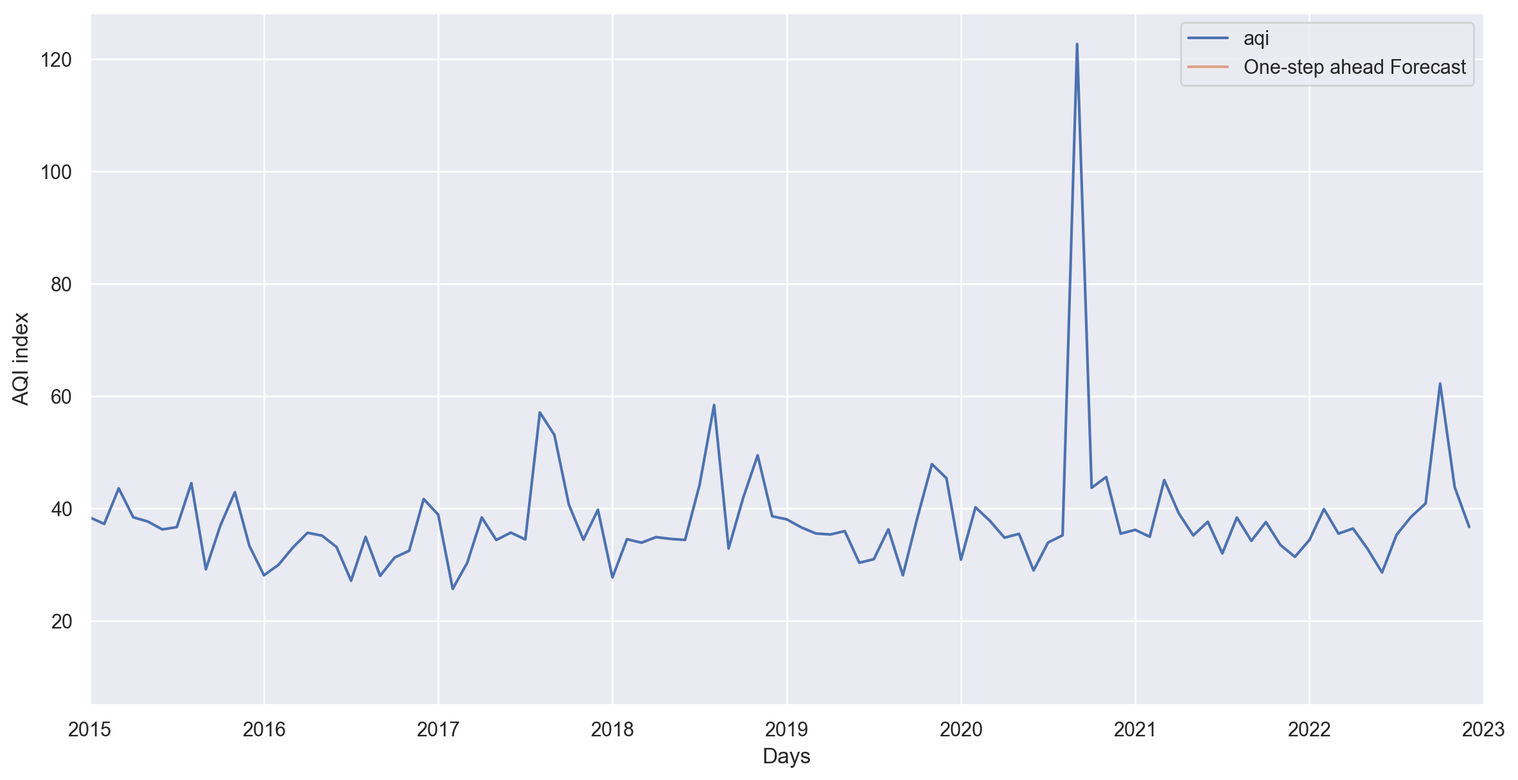
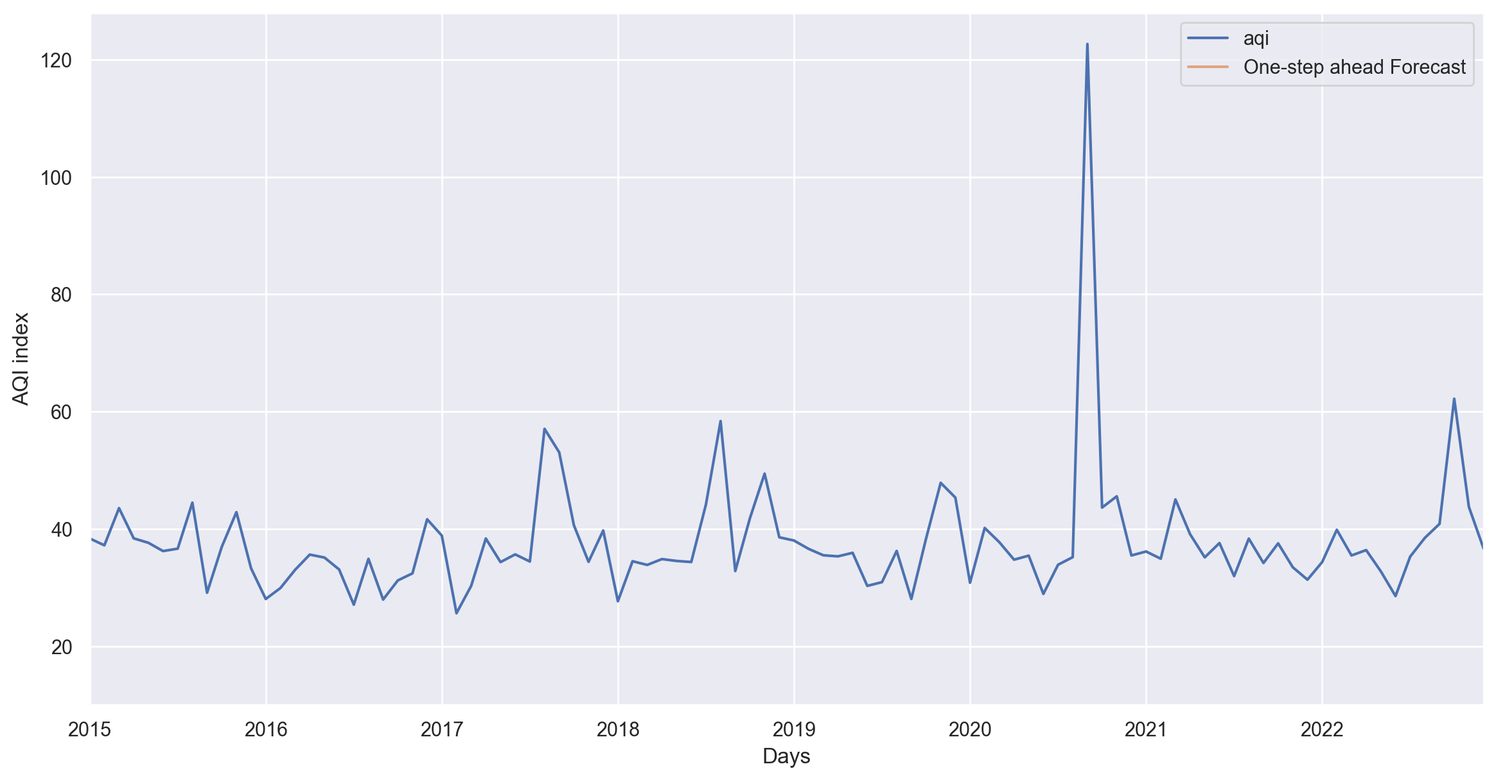
Built site for gh-pages

diff --git a/capstone.html b/capstone.html
@@ -465,7 +465,7 @@ window.Quarto = {
 <div id="cell-sweetvis-report" class="cell" data-execution_count="9">
 <div id="sweetvis-report" class="cell-output cell-output-display">
 <script type="application/vnd.jupyter.widget-view+json">
-{"model_id":"a501fcc1f19146e3a43d1f40a7b7bb3c","version_major":2,"version_minor":0,"quarto_mimetype":"application/vnd.jupyter.widget-view+json"}
+{"model_id":"ec99ad466fbc4343861522b5c9270a0a","version_major":2,"version_minor":0,"quarto_mimetype":"application/vnd.jupyter.widget-view+json"}
 </script>
 </div>
 <div class="cell-output cell-output-stdout">
@@ -666,7 +666,7 @@ The graph indicates overlapping patterns in the testing and training data, sugge
 ::: {#cell-plot-prediction .cell execution_count=27}
 
 ::: {.cell-output .cell-output-display}
-![](capstone_files/figure-html/plot-prediction-output-1.png){#plot-prediction width=1181 height=607}
+![](capstone_files/figure-html/plot-prediction-output-1.png){#plot-prediction width=1164 height=607}
 :::
 :::
 
@@ -681,7 +681,7 @@ To evaluate model performance, we calculate the MSE
 ::: {#calculate-mse .cell execution_count=29}
 
 ::: {.cell-output .cell-output-stdout}</code></pre>
-<p>The Mean Squared Error of our forecasts is 1.41 ``` ::: :::</p>
+<p>The Mean Squared Error of our forecasts is 3.38 ``` ::: :::</p>
 <section id="forecasting-future-values" class="level2">
 <h2 class="anchored" data-anchor-id="forecasting-future-values">Forecasting Future Values</h2>
 <p>As we conclude our modeling process, we generate predictions for the next 7 data points:</p>
@@ -791,7 +791,7 @@ To evaluate model performance, we calculate the MSE
 </main>
 <!-- /main column -->
 <script type="application/vnd.jupyter.widget-state+json">
-{"state":{"2ea18e6ea51c46ba9e9ee48e72ef158d":{"model_module":"@jupyter-widgets/controls","model_module_version":"2.0.0","model_name":"FloatProgressModel","state":{"_dom_classes":[],"_model_module":"@jupyter-widgets/controls","_model_module_version":"2.0.0","_model_name":"FloatProgressModel","_view_count":null,"_view_module":"@jupyter-widgets/controls","_view_module_version":"2.0.0","_view_name":"ProgressView","bar_style":"success","description":"","description_allow_html":false,"layout":"IPY_MODEL_4f5a3c264dbb4af0a2864dc6a41ca793","max":1,"min":0,"orientation":"horizontal","style":"IPY_MODEL_571d17337012406a85c8edd69dbf84c9","tabbable":null,"tooltip":null,"value":1}},"4f5a3c264dbb4af0a2864dc6a41ca793":{"model_module":"@jupyter-widgets/base","model_module_version":"2.0.0","model_name":"LayoutModel","state":{"_model_module":"@jupyter-widgets/base","_model_module_version":"2.0.0","_model_name":"LayoutModel","_view_count":null,"_view_module":"@jupyter-widgets/base","_view_module_version":"2.0.0","_view_name":"LayoutView","align_content":null,"align_items":null,"align_self":null,"border_bottom":null,"border_left":null,"border_right":null,"border_top":null,"bottom":null,"display":null,"flex":"2","flex_flow":null,"grid_area":null,"grid_auto_columns":null,"grid_auto_flow":null,"grid_auto_rows":null,"grid_column":null,"grid_gap":null,"grid_row":null,"grid_template_areas":null,"grid_template_columns":null,"grid_template_rows":null,"height":null,"justify_content":null,"justify_items":null,"left":null,"margin":null,"max_height":null,"max_width":null,"min_height":null,"min_width":null,"object_fit":null,"object_position":null,"order":null,"overflow":null,"padding":null,"right":null,"top":null,"visibility":null,"width":null}},"571d17337012406a85c8edd69dbf84c9":{"model_module":"@jupyter-widgets/controls","model_module_version":"2.0.0","model_name":"ProgressStyleModel","state":{"_model_module":"@jupyter-widgets/controls","_model_module_version":"2.0.0","_model_name":"ProgressStyleModel","_view_count":null,"_view_module":"@jupyter-widgets/base","_view_module_version":"2.0.0","_view_name":"StyleView","bar_color":null,"description_width":""}},"822ebb24d6684d768a9391b8932e4284":{"model_module":"@jupyter-widgets/controls","model_module_version":"2.0.0","model_name":"HTMLStyleModel","state":{"_model_module":"@jupyter-widgets/controls","_model_module_version":"2.0.0","_model_name":"HTMLStyleModel","_view_count":null,"_view_module":"@jupyter-widgets/base","_view_module_version":"2.0.0","_view_name":"StyleView","background":null,"description_width":"","font_size":null,"text_color":null}},"965e438e6b0449f89a46077520d34b82":{"model_module":"@jupyter-widgets/controls","model_module_version":"2.0.0","model_name":"HTMLStyleModel","state":{"_model_module":"@jupyter-widgets/controls","_model_module_version":"2.0.0","_model_name":"HTMLStyleModel","_view_count":null,"_view_module":"@jupyter-widgets/base","_view_module_version":"2.0.0","_view_name":"StyleView","background":null,"description_width":"","font_size":null,"text_color":null}},"a501fcc1f19146e3a43d1f40a7b7bb3c":{"model_module":"@jupyter-widgets/controls","model_module_version":"2.0.0","model_name":"HBoxModel","state":{"_dom_classes":[],"_model_module":"@jupyter-widgets/controls","_model_module_version":"2.0.0","_model_name":"HBoxModel","_view_count":null,"_view_module":"@jupyter-widgets/controls","_view_module_version":"2.0.0","_view_name":"HBoxView","box_style":"","children":["IPY_MODEL_e66b79edfe584945843e8c9934f2599a","IPY_MODEL_2ea18e6ea51c46ba9e9ee48e72ef158d","IPY_MODEL_b2de35547797410d87855e5888c433d8"],"layout":"IPY_MODEL_d05495e6dac04d169d86a2d1f2a990a5","tabbable":null,"tooltip":null}},"af5146f39d024f12a5582dd269ab049f":{"model_module":"@jupyter-widgets/base","model_module_version":"2.0.0","model_name":"LayoutModel","state":{"_model_module":"@jupyter-widgets/base","_model_module_version":"2.0.0","_model_name":"LayoutModel","_view_count":null,"_view_module":"@jupyter-widgets/base","_view_module_version":"2.0.0","_view_name":"LayoutView","align_content":null,"align_items":null,"align_self":null,"border_bottom":null,"border_left":null,"border_right":null,"border_top":null,"bottom":null,"display":null,"flex":null,"flex_flow":null,"grid_area":null,"grid_auto_columns":null,"grid_auto_flow":null,"grid_auto_rows":null,"grid_column":null,"grid_gap":null,"grid_row":null,"grid_template_areas":null,"grid_template_columns":null,"grid_template_rows":null,"height":null,"justify_content":null,"justify_items":null,"left":null,"margin":null,"max_height":null,"max_width":null,"min_height":null,"min_width":null,"object_fit":null,"object_position":null,"order":null,"overflow":null,"padding":null,"right":null,"top":null,"visibility":null,"width":null}},"b2de35547797410d87855e5888c433d8":{"model_module":"@jupyter-widgets/controls","model_module_version":"2.0.0","model_name":"HTMLModel","state":{"_dom_classes":[],"_model_module":"@jupyter-widgets/controls","_model_module_version":"2.0.0","_model_name":"HTMLModel","_view_count":null,"_view_module":"@jupyter-widgets/controls","_view_module_version":"2.0.0","_view_name":"HTMLView","description":"","description_allow_html":false,"layout":"IPY_MODEL_d2e5dfebb17847029031818a772fe55e","placeholder":"","style":"IPY_MODEL_965e438e6b0449f89a46077520d34b82","tabbable":null,"tooltip":null,"value":" [100%]   00:01 -&gt; (00:00 left)"}},"d05495e6dac04d169d86a2d1f2a990a5":{"model_module":"@jupyter-widgets/base","model_module_version":"2.0.0","model_name":"LayoutModel","state":{"_model_module":"@jupyter-widgets/base","_model_module_version":"2.0.0","_model_name":"LayoutModel","_view_count":null,"_view_module":"@jupyter-widgets/base","_view_module_version":"2.0.0","_view_name":"LayoutView","align_content":null,"align_items":null,"align_self":null,"border_bottom":null,"border_left":null,"border_right":null,"border_top":null,"bottom":null,"display":"inline-flex","flex":null,"flex_flow":"row wrap","grid_area":null,"grid_auto_columns":null,"grid_auto_flow":null,"grid_auto_rows":null,"grid_column":null,"grid_gap":null,"grid_row":null,"grid_template_areas":null,"grid_template_columns":null,"grid_template_rows":null,"height":null,"justify_content":null,"justify_items":null,"left":null,"margin":null,"max_height":null,"max_width":null,"min_height":null,"min_width":null,"object_fit":null,"object_position":null,"order":null,"overflow":null,"padding":null,"right":null,"top":null,"visibility":null,"width":"100%"}},"d2e5dfebb17847029031818a772fe55e":{"model_module":"@jupyter-widgets/base","model_module_version":"2.0.0","model_name":"LayoutModel","state":{"_model_module":"@jupyter-widgets/base","_model_module_version":"2.0.0","_model_name":"LayoutModel","_view_count":null,"_view_module":"@jupyter-widgets/base","_view_module_version":"2.0.0","_view_name":"LayoutView","align_content":null,"align_items":null,"align_self":null,"border_bottom":null,"border_left":null,"border_right":null,"border_top":null,"bottom":null,"display":null,"flex":null,"flex_flow":null,"grid_area":null,"grid_auto_columns":null,"grid_auto_flow":null,"grid_auto_rows":null,"grid_column":null,"grid_gap":null,"grid_row":null,"grid_template_areas":null,"grid_template_columns":null,"grid_template_rows":null,"height":null,"justify_content":null,"justify_items":null,"left":null,"margin":null,"max_height":null,"max_width":null,"min_height":null,"min_width":null,"object_fit":null,"object_position":null,"order":null,"overflow":null,"padding":null,"right":null,"top":null,"visibility":null,"width":null}},"e66b79edfe584945843e8c9934f2599a":{"model_module":"@jupyter-widgets/controls","model_module_version":"2.0.0","model_name":"HTMLModel","state":{"_dom_classes":[],"_model_module":"@jupyter-widgets/controls","_model_module_version":"2.0.0","_model_name":"HTMLModel","_view_count":null,"_view_module":"@jupyter-widgets/controls","_view_module_version":"2.0.0","_view_name":"HTMLView","description":"","description_allow_html":false,"layout":"IPY_MODEL_af5146f39d024f12a5582dd269ab049f","placeholder":"","style":"IPY_MODEL_822ebb24d6684d768a9391b8932e4284","tabbable":null,"tooltip":null,"value":"Done! Use &#x27;show&#x27; commands to display/save.   "}}},"version_major":2,"version_minor":0}
+{"state":{"3d402343ef1946248b02e79573597fcf":{"model_module":"@jupyter-widgets/controls","model_module_version":"2.0.0","model_name":"ProgressStyleModel","state":{"_model_module":"@jupyter-widgets/controls","_model_module_version":"2.0.0","_model_name":"ProgressStyleModel","_view_count":null,"_view_module":"@jupyter-widgets/base","_view_module_version":"2.0.0","_view_name":"StyleView","bar_color":null,"description_width":""}},"49e5c80c6dda4f1fb98753abdaf88c9c":{"model_module":"@jupyter-widgets/base","model_module_version":"2.0.0","model_name":"LayoutModel","state":{"_model_module":"@jupyter-widgets/base","_model_module_version":"2.0.0","_model_name":"LayoutModel","_view_count":null,"_view_module":"@jupyter-widgets/base","_view_module_version":"2.0.0","_view_name":"LayoutView","align_content":null,"align_items":null,"align_self":null,"border_bottom":null,"border_left":null,"border_right":null,"border_top":null,"bottom":null,"display":null,"flex":null,"flex_flow":null,"grid_area":null,"grid_auto_columns":null,"grid_auto_flow":null,"grid_auto_rows":null,"grid_column":null,"grid_gap":null,"grid_row":null,"grid_template_areas":null,"grid_template_columns":null,"grid_template_rows":null,"height":null,"justify_content":null,"justify_items":null,"left":null,"margin":null,"max_height":null,"max_width":null,"min_height":null,"min_width":null,"object_fit":null,"object_position":null,"order":null,"overflow":null,"padding":null,"right":null,"top":null,"visibility":null,"width":null}},"6afba8055e2c49dfa81f9986a1ab6a39":{"model_module":"@jupyter-widgets/controls","model_module_version":"2.0.0","model_name":"HTMLModel","state":{"_dom_classes":[],"_model_module":"@jupyter-widgets/controls","_model_module_version":"2.0.0","_model_name":"HTMLModel","_view_count":null,"_view_module":"@jupyter-widgets/controls","_view_module_version":"2.0.0","_view_name":"HTMLView","description":"","description_allow_html":false,"layout":"IPY_MODEL_49e5c80c6dda4f1fb98753abdaf88c9c","placeholder":"","style":"IPY_MODEL_6e85fd0e65f64930873b68faa0e7628f","tabbable":null,"tooltip":null,"value":"Done! Use &#x27;show&#x27; commands to display/save.   "}},"6e85fd0e65f64930873b68faa0e7628f":{"model_module":"@jupyter-widgets/controls","model_module_version":"2.0.0","model_name":"HTMLStyleModel","state":{"_model_module":"@jupyter-widgets/controls","_model_module_version":"2.0.0","_model_name":"HTMLStyleModel","_view_count":null,"_view_module":"@jupyter-widgets/base","_view_module_version":"2.0.0","_view_name":"StyleView","background":null,"description_width":"","font_size":null,"text_color":null}},"a71c74b10b3942759b6e5cd9469dc76b":{"model_module":"@jupyter-widgets/base","model_module_version":"2.0.0","model_name":"LayoutModel","state":{"_model_module":"@jupyter-widgets/base","_model_module_version":"2.0.0","_model_name":"LayoutModel","_view_count":null,"_view_module":"@jupyter-widgets/base","_view_module_version":"2.0.0","_view_name":"LayoutView","align_content":null,"align_items":null,"align_self":null,"border_bottom":null,"border_left":null,"border_right":null,"border_top":null,"bottom":null,"display":null,"flex":null,"flex_flow":null,"grid_area":null,"grid_auto_columns":null,"grid_auto_flow":null,"grid_auto_rows":null,"grid_column":null,"grid_gap":null,"grid_row":null,"grid_template_areas":null,"grid_template_columns":null,"grid_template_rows":null,"height":null,"justify_content":null,"justify_items":null,"left":null,"margin":null,"max_height":null,"max_width":null,"min_height":null,"min_width":null,"object_fit":null,"object_position":null,"order":null,"overflow":null,"padding":null,"right":null,"top":null,"visibility":null,"width":null}},"bde4598d8fd740a2b90c04fa6d36bd38":{"model_module":"@jupyter-widgets/controls","model_module_version":"2.0.0","model_name":"HTMLStyleModel","state":{"_model_module":"@jupyter-widgets/controls","_model_module_version":"2.0.0","_model_name":"HTMLStyleModel","_view_count":null,"_view_module":"@jupyter-widgets/base","_view_module_version":"2.0.0","_view_name":"StyleView","background":null,"description_width":"","font_size":null,"text_color":null}},"cbb401fbfc174bd89c12504bb56e243c":{"model_module":"@jupyter-widgets/base","model_module_version":"2.0.0","model_name":"LayoutModel","state":{"_model_module":"@jupyter-widgets/base","_model_module_version":"2.0.0","_model_name":"LayoutModel","_view_count":null,"_view_module":"@jupyter-widgets/base","_view_module_version":"2.0.0","_view_name":"LayoutView","align_content":null,"align_items":null,"align_self":null,"border_bottom":null,"border_left":null,"border_right":null,"border_top":null,"bottom":null,"display":null,"flex":"2","flex_flow":null,"grid_area":null,"grid_auto_columns":null,"grid_auto_flow":null,"grid_auto_rows":null,"grid_column":null,"grid_gap":null,"grid_row":null,"grid_template_areas":null,"grid_template_columns":null,"grid_template_rows":null,"height":null,"justify_content":null,"justify_items":null,"left":null,"margin":null,"max_height":null,"max_width":null,"min_height":null,"min_width":null,"object_fit":null,"object_position":null,"order":null,"overflow":null,"padding":null,"right":null,"top":null,"visibility":null,"width":null}},"d2e7591a9e434319a386733c6dd4a66c":{"model_module":"@jupyter-widgets/controls","model_module_version":"2.0.0","model_name":"FloatProgressModel","state":{"_dom_classes":[],"_model_module":"@jupyter-widgets/controls","_model_module_version":"2.0.0","_model_name":"FloatProgressModel","_view_count":null,"_view_module":"@jupyter-widgets/controls","_view_module_version":"2.0.0","_view_name":"ProgressView","bar_style":"success","description":"","description_allow_html":false,"layout":"IPY_MODEL_cbb401fbfc174bd89c12504bb56e243c","max":1,"min":0,"orientation":"horizontal","style":"IPY_MODEL_3d402343ef1946248b02e79573597fcf","tabbable":null,"tooltip":null,"value":1}},"eb07d584512044c796829f265903a0bd":{"model_module":"@jupyter-widgets/base","model_module_version":"2.0.0","model_name":"LayoutModel","state":{"_model_module":"@jupyter-widgets/base","_model_module_version":"2.0.0","_model_name":"LayoutModel","_view_count":null,"_view_module":"@jupyter-widgets/base","_view_module_version":"2.0.0","_view_name":"LayoutView","align_content":null,"align_items":null,"align_self":null,"border_bottom":null,"border_left":null,"border_right":null,"border_top":null,"bottom":null,"display":"inline-flex","flex":null,"flex_flow":"row wrap","grid_area":null,"grid_auto_columns":null,"grid_auto_flow":null,"grid_auto_rows":null,"grid_column":null,"grid_gap":null,"grid_row":null,"grid_template_areas":null,"grid_template_columns":null,"grid_template_rows":null,"height":null,"justify_content":null,"justify_items":null,"left":null,"margin":null,"max_height":null,"max_width":null,"min_height":null,"min_width":null,"object_fit":null,"object_position":null,"order":null,"overflow":null,"padding":null,"right":null,"top":null,"visibility":null,"width":"100%"}},"ec99ad466fbc4343861522b5c9270a0a":{"model_module":"@jupyter-widgets/controls","model_module_version":"2.0.0","model_name":"HBoxModel","state":{"_dom_classes":[],"_model_module":"@jupyter-widgets/controls","_model_module_version":"2.0.0","_model_name":"HBoxModel","_view_count":null,"_view_module":"@jupyter-widgets/controls","_view_module_version":"2.0.0","_view_name":"HBoxView","box_style":"","children":["IPY_MODEL_6afba8055e2c49dfa81f9986a1ab6a39","IPY_MODEL_d2e7591a9e434319a386733c6dd4a66c","IPY_MODEL_fb09c1acca504dc09da0a9fcaa9c09aa"],"layout":"IPY_MODEL_eb07d584512044c796829f265903a0bd","tabbable":null,"tooltip":null}},"fb09c1acca504dc09da0a9fcaa9c09aa":{"model_module":"@jupyter-widgets/controls","model_module_version":"2.0.0","model_name":"HTMLModel","state":{"_dom_classes":[],"_model_module":"@jupyter-widgets/controls","_model_module_version":"2.0.0","_model_name":"HTMLModel","_view_count":null,"_view_module":"@jupyter-widgets/controls","_view_module_version":"2.0.0","_view_name":"HTMLView","description":"","description_allow_html":false,"layout":"IPY_MODEL_a71c74b10b3942759b6e5cd9469dc76b","placeholder":"","style":"IPY_MODEL_bde4598d8fd740a2b90c04fa6d36bd38","tabbable":null,"tooltip":null,"value":" [100%]   00:02 -&gt; (00:00 left)"}}},"version_major":2,"version_minor":0}
 </script>
 <script id="quarto-html-after-body" type="application/javascript">
 window.document.addEventListener("DOMContentLoaded", function (event) {

diff --git a/index.html b/index.html
@@ -465,7 +465,7 @@ window.Quarto = {
 <div id="cell-sweetvis-report" class="cell" data-execution_count="9">
 <div id="sweetvis-report" class="cell-output cell-output-display">
 <script type="application/vnd.jupyter.widget-view+json">
-{"model_id":"a501fcc1f19146e3a43d1f40a7b7bb3c","version_major":2,"version_minor":0,"quarto_mimetype":"application/vnd.jupyter.widget-view+json"}
+{"model_id":"ec99ad466fbc4343861522b5c9270a0a","version_major":2,"version_minor":0,"quarto_mimetype":"application/vnd.jupyter.widget-view+json"}
 </script>
 </div>
 <div class="cell-output cell-output-stdout">
@@ -666,7 +666,7 @@ The graph indicates overlapping patterns in the testing and training data, sugge
 ::: {#cell-plot-prediction .cell execution_count=27}
 
 ::: {.cell-output .cell-output-display}
-![](capstone_files/figure-html/plot-prediction-output-1.png){#plot-prediction width=1181 height=607}
+![](capstone_files/figure-html/plot-prediction-output-1.png){#plot-prediction width=1164 height=607}
 :::
 :::
 
@@ -681,7 +681,7 @@ To evaluate model performance, we calculate the MSE
 ::: {#calculate-mse .cell execution_count=29}
 
 ::: {.cell-output .cell-output-stdout}</code></pre>
-<p>The Mean Squared Error of our forecasts is 1.41 ``` ::: :::</p>
+<p>The Mean Squared Error of our forecasts is 3.38 ``` ::: :::</p>
 <section id="forecasting-future-values" class="level2">
 <h2 class="anchored" data-anchor-id="forecasting-future-values">Forecasting Future Values</h2>
 <p>As we conclude our modeling process, we generate predictions for the next 7 data points:</p>
@@ -791,7 +791,7 @@ To evaluate model performance, we calculate the MSE
 </main>
 <!-- /main column -->
 <script type="application/vnd.jupyter.widget-state+json">
-{"state":{"2ea18e6ea51c46ba9e9ee48e72ef158d":{"model_module":"@jupyter-widgets/controls","model_module_version":"2.0.0","model_name":"FloatProgressModel","state":{"_dom_classes":[],"_model_module":"@jupyter-widgets/controls","_model_module_version":"2.0.0","_model_name":"FloatProgressModel","_view_count":null,"_view_module":"@jupyter-widgets/controls","_view_module_version":"2.0.0","_view_name":"ProgressView","bar_style":"success","description":"","description_allow_html":false,"layout":"IPY_MODEL_4f5a3c264dbb4af0a2864dc6a41ca793","max":1,"min":0,"orientation":"horizontal","style":"IPY_MODEL_571d17337012406a85c8edd69dbf84c9","tabbable":null,"tooltip":null,"value":1}},"4f5a3c264dbb4af0a2864dc6a41ca793":{"model_module":"@jupyter-widgets/base","model_module_version":"2.0.0","model_name":"LayoutModel","state":{"_model_module":"@jupyter-widgets/base","_model_module_version":"2.0.0","_model_name":"LayoutModel","_view_count":null,"_view_module":"@jupyter-widgets/base","_view_module_version":"2.0.0","_view_name":"LayoutView","align_content":null,"align_items":null,"align_self":null,"border_bottom":null,"border_left":null,"border_right":null,"border_top":null,"bottom":null,"display":null,"flex":"2","flex_flow":null,"grid_area":null,"grid_auto_columns":null,"grid_auto_flow":null,"grid_auto_rows":null,"grid_column":null,"grid_gap":null,"grid_row":null,"grid_template_areas":null,"grid_template_columns":null,"grid_template_rows":null,"height":null,"justify_content":null,"justify_items":null,"left":null,"margin":null,"max_height":null,"max_width":null,"min_height":null,"min_width":null,"object_fit":null,"object_position":null,"order":null,"overflow":null,"padding":null,"right":null,"top":null,"visibility":null,"width":null}},"571d17337012406a85c8edd69dbf84c9":{"model_module":"@jupyter-widgets/controls","model_module_version":"2.0.0","model_name":"ProgressStyleModel","state":{"_model_module":"@jupyter-widgets/controls","_model_module_version":"2.0.0","_model_name":"ProgressStyleModel","_view_count":null,"_view_module":"@jupyter-widgets/base","_view_module_version":"2.0.0","_view_name":"StyleView","bar_color":null,"description_width":""}},"822ebb24d6684d768a9391b8932e4284":{"model_module":"@jupyter-widgets/controls","model_module_version":"2.0.0","model_name":"HTMLStyleModel","state":{"_model_module":"@jupyter-widgets/controls","_model_module_version":"2.0.0","_model_name":"HTMLStyleModel","_view_count":null,"_view_module":"@jupyter-widgets/base","_view_module_version":"2.0.0","_view_name":"StyleView","background":null,"description_width":"","font_size":null,"text_color":null}},"965e438e6b0449f89a46077520d34b82":{"model_module":"@jupyter-widgets/controls","model_module_version":"2.0.0","model_name":"HTMLStyleModel","state":{"_model_module":"@jupyter-widgets/controls","_model_module_version":"2.0.0","_model_name":"HTMLStyleModel","_view_count":null,"_view_module":"@jupyter-widgets/base","_view_module_version":"2.0.0","_view_name":"StyleView","background":null,"description_width":"","font_size":null,"text_color":null}},"a501fcc1f19146e3a43d1f40a7b7bb3c":{"model_module":"@jupyter-widgets/controls","model_module_version":"2.0.0","model_name":"HBoxModel","state":{"_dom_classes":[],"_model_module":"@jupyter-widgets/controls","_model_module_version":"2.0.0","_model_name":"HBoxModel","_view_count":null,"_view_module":"@jupyter-widgets/controls","_view_module_version":"2.0.0","_view_name":"HBoxView","box_style":"","children":["IPY_MODEL_e66b79edfe584945843e8c9934f2599a","IPY_MODEL_2ea18e6ea51c46ba9e9ee48e72ef158d","IPY_MODEL_b2de35547797410d87855e5888c433d8"],"layout":"IPY_MODEL_d05495e6dac04d169d86a2d1f2a990a5","tabbable":null,"tooltip":null}},"af5146f39d024f12a5582dd269ab049f":{"model_module":"@jupyter-widgets/base","model_module_version":"2.0.0","model_name":"LayoutModel","state":{"_model_module":"@jupyter-widgets/base","_model_module_version":"2.0.0","_model_name":"LayoutModel","_view_count":null,"_view_module":"@jupyter-widgets/base","_view_module_version":"2.0.0","_view_name":"LayoutView","align_content":null,"align_items":null,"align_self":null,"border_bottom":null,"border_left":null,"border_right":null,"border_top":null,"bottom":null,"display":null,"flex":null,"flex_flow":null,"grid_area":null,"grid_auto_columns":null,"grid_auto_flow":null,"grid_auto_rows":null,"grid_column":null,"grid_gap":null,"grid_row":null,"grid_template_areas":null,"grid_template_columns":null,"grid_template_rows":null,"height":null,"justify_content":null,"justify_items":null,"left":null,"margin":null,"max_height":null,"max_width":null,"min_height":null,"min_width":null,"object_fit":null,"object_position":null,"order":null,"overflow":null,"padding":null,"right":null,"top":null,"visibility":null,"width":null}},"b2de35547797410d87855e5888c433d8":{"model_module":"@jupyter-widgets/controls","model_module_version":"2.0.0","model_name":"HTMLModel","state":{"_dom_classes":[],"_model_module":"@jupyter-widgets/controls","_model_module_version":"2.0.0","_model_name":"HTMLModel","_view_count":null,"_view_module":"@jupyter-widgets/controls","_view_module_version":"2.0.0","_view_name":"HTMLView","description":"","description_allow_html":false,"layout":"IPY_MODEL_d2e5dfebb17847029031818a772fe55e","placeholder":"","style":"IPY_MODEL_965e438e6b0449f89a46077520d34b82","tabbable":null,"tooltip":null,"value":" [100%]   00:01 -&gt; (00:00 left)"}},"d05495e6dac04d169d86a2d1f2a990a5":{"model_module":"@jupyter-widgets/base","model_module_version":"2.0.0","model_name":"LayoutModel","state":{"_model_module":"@jupyter-widgets/base","_model_module_version":"2.0.0","_model_name":"LayoutModel","_view_count":null,"_view_module":"@jupyter-widgets/base","_view_module_version":"2.0.0","_view_name":"LayoutView","align_content":null,"align_items":null,"align_self":null,"border_bottom":null,"border_left":null,"border_right":null,"border_top":null,"bottom":null,"display":"inline-flex","flex":null,"flex_flow":"row wrap","grid_area":null,"grid_auto_columns":null,"grid_auto_flow":null,"grid_auto_rows":null,"grid_column":null,"grid_gap":null,"grid_row":null,"grid_template_areas":null,"grid_template_columns":null,"grid_template_rows":null,"height":null,"justify_content":null,"justify_items":null,"left":null,"margin":null,"max_height":null,"max_width":null,"min_height":null,"min_width":null,"object_fit":null,"object_position":null,"order":null,"overflow":null,"padding":null,"right":null,"top":null,"visibility":null,"width":"100%"}},"d2e5dfebb17847029031818a772fe55e":{"model_module":"@jupyter-widgets/base","model_module_version":"2.0.0","model_name":"LayoutModel","state":{"_model_module":"@jupyter-widgets/base","_model_module_version":"2.0.0","_model_name":"LayoutModel","_view_count":null,"_view_module":"@jupyter-widgets/base","_view_module_version":"2.0.0","_view_name":"LayoutView","align_content":null,"align_items":null,"align_self":null,"border_bottom":null,"border_left":null,"border_right":null,"border_top":null,"bottom":null,"display":null,"flex":null,"flex_flow":null,"grid_area":null,"grid_auto_columns":null,"grid_auto_flow":null,"grid_auto_rows":null,"grid_column":null,"grid_gap":null,"grid_row":null,"grid_template_areas":null,"grid_template_columns":null,"grid_template_rows":null,"height":null,"justify_content":null,"justify_items":null,"left":null,"margin":null,"max_height":null,"max_width":null,"min_height":null,"min_width":null,"object_fit":null,"object_position":null,"order":null,"overflow":null,"padding":null,"right":null,"top":null,"visibility":null,"width":null}},"e66b79edfe584945843e8c9934f2599a":{"model_module":"@jupyter-widgets/controls","model_module_version":"2.0.0","model_name":"HTMLModel","state":{"_dom_classes":[],"_model_module":"@jupyter-widgets/controls","_model_module_version":"2.0.0","_model_name":"HTMLModel","_view_count":null,"_view_module":"@jupyter-widgets/controls","_view_module_version":"2.0.0","_view_name":"HTMLView","description":"","description_allow_html":false,"layout":"IPY_MODEL_af5146f39d024f12a5582dd269ab049f","placeholder":"","style":"IPY_MODEL_822ebb24d6684d768a9391b8932e4284","tabbable":null,"tooltip":null,"value":"Done! Use &#x27;show&#x27; commands to display/save.   "}}},"version_major":2,"version_minor":0}
+{"state":{"3d402343ef1946248b02e79573597fcf":{"model_module":"@jupyter-widgets/controls","model_module_version":"2.0.0","model_name":"ProgressStyleModel","state":{"_model_module":"@jupyter-widgets/controls","_model_module_version":"2.0.0","_model_name":"ProgressStyleModel","_view_count":null,"_view_module":"@jupyter-widgets/base","_view_module_version":"2.0.0","_view_name":"StyleView","bar_color":null,"description_width":""}},"49e5c80c6dda4f1fb98753abdaf88c9c":{"model_module":"@jupyter-widgets/base","model_module_version":"2.0.0","model_name":"LayoutModel","state":{"_model_module":"@jupyter-widgets/base","_model_module_version":"2.0.0","_model_name":"LayoutModel","_view_count":null,"_view_module":"@jupyter-widgets/base","_view_module_version":"2.0.0","_view_name":"LayoutView","align_content":null,"align_items":null,"align_self":null,"border_bottom":null,"border_left":null,"border_right":null,"border_top":null,"bottom":null,"display":null,"flex":null,"flex_flow":null,"grid_area":null,"grid_auto_columns":null,"grid_auto_flow":null,"grid_auto_rows":null,"grid_column":null,"grid_gap":null,"grid_row":null,"grid_template_areas":null,"grid_template_columns":null,"grid_template_rows":null,"height":null,"justify_content":null,"justify_items":null,"left":null,"margin":null,"max_height":null,"max_width":null,"min_height":null,"min_width":null,"object_fit":null,"object_position":null,"order":null,"overflow":null,"padding":null,"right":null,"top":null,"visibility":null,"width":null}},"6afba8055e2c49dfa81f9986a1ab6a39":{"model_module":"@jupyter-widgets/controls","model_module_version":"2.0.0","model_name":"HTMLModel","state":{"_dom_classes":[],"_model_module":"@jupyter-widgets/controls","_model_module_version":"2.0.0","_model_name":"HTMLModel","_view_count":null,"_view_module":"@jupyter-widgets/controls","_view_module_version":"2.0.0","_view_name":"HTMLView","description":"","description_allow_html":false,"layout":"IPY_MODEL_49e5c80c6dda4f1fb98753abdaf88c9c","placeholder":"","style":"IPY_MODEL_6e85fd0e65f64930873b68faa0e7628f","tabbable":null,"tooltip":null,"value":"Done! Use &#x27;show&#x27; commands to display/save.   "}},"6e85fd0e65f64930873b68faa0e7628f":{"model_module":"@jupyter-widgets/controls","model_module_version":"2.0.0","model_name":"HTMLStyleModel","state":{"_model_module":"@jupyter-widgets/controls","_model_module_version":"2.0.0","_model_name":"HTMLStyleModel","_view_count":null,"_view_module":"@jupyter-widgets/base","_view_module_version":"2.0.0","_view_name":"StyleView","background":null,"description_width":"","font_size":null,"text_color":null}},"a71c74b10b3942759b6e5cd9469dc76b":{"model_module":"@jupyter-widgets/base","model_module_version":"2.0.0","model_name":"LayoutModel","state":{"_model_module":"@jupyter-widgets/base","_model_module_version":"2.0.0","_model_name":"LayoutModel","_view_count":null,"_view_module":"@jupyter-widgets/base","_view_module_version":"2.0.0","_view_name":"LayoutView","align_content":null,"align_items":null,"align_self":null,"border_bottom":null,"border_left":null,"border_right":null,"border_top":null,"bottom":null,"display":null,"flex":null,"flex_flow":null,"grid_area":null,"grid_auto_columns":null,"grid_auto_flow":null,"grid_auto_rows":null,"grid_column":null,"grid_gap":null,"grid_row":null,"grid_template_areas":null,"grid_template_columns":null,"grid_template_rows":null,"height":null,"justify_content":null,"justify_items":null,"left":null,"margin":null,"max_height":null,"max_width":null,"min_height":null,"min_width":null,"object_fit":null,"object_position":null,"order":null,"overflow":null,"padding":null,"right":null,"top":null,"visibility":null,"width":null}},"bde4598d8fd740a2b90c04fa6d36bd38":{"model_module":"@jupyter-widgets/controls","model_module_version":"2.0.0","model_name":"HTMLStyleModel","state":{"_model_module":"@jupyter-widgets/controls","_model_module_version":"2.0.0","_model_name":"HTMLStyleModel","_view_count":null,"_view_module":"@jupyter-widgets/base","_view_module_version":"2.0.0","_view_name":"StyleView","background":null,"description_width":"","font_size":null,"text_color":null}},"cbb401fbfc174bd89c12504bb56e243c":{"model_module":"@jupyter-widgets/base","model_module_version":"2.0.0","model_name":"LayoutModel","state":{"_model_module":"@jupyter-widgets/base","_model_module_version":"2.0.0","_model_name":"LayoutModel","_view_count":null,"_view_module":"@jupyter-widgets/base","_view_module_version":"2.0.0","_view_name":"LayoutView","align_content":null,"align_items":null,"align_self":null,"border_bottom":null,"border_left":null,"border_right":null,"border_top":null,"bottom":null,"display":null,"flex":"2","flex_flow":null,"grid_area":null,"grid_auto_columns":null,"grid_auto_flow":null,"grid_auto_rows":null,"grid_column":null,"grid_gap":null,"grid_row":null,"grid_template_areas":null,"grid_template_columns":null,"grid_template_rows":null,"height":null,"justify_content":null,"justify_items":null,"left":null,"margin":null,"max_height":null,"max_width":null,"min_height":null,"min_width":null,"object_fit":null,"object_position":null,"order":null,"overflow":null,"padding":null,"right":null,"top":null,"visibility":null,"width":null}},"d2e7591a9e434319a386733c6dd4a66c":{"model_module":"@jupyter-widgets/controls","model_module_version":"2.0.0","model_name":"FloatProgressModel","state":{"_dom_classes":[],"_model_module":"@jupyter-widgets/controls","_model_module_version":"2.0.0","_model_name":"FloatProgressModel","_view_count":null,"_view_module":"@jupyter-widgets/controls","_view_module_version":"2.0.0","_view_name":"ProgressView","bar_style":"success","description":"","description_allow_html":false,"layout":"IPY_MODEL_cbb401fbfc174bd89c12504bb56e243c","max":1,"min":0,"orientation":"horizontal","style":"IPY_MODEL_3d402343ef1946248b02e79573597fcf","tabbable":null,"tooltip":null,"value":1}},"eb07d584512044c796829f265903a0bd":{"model_module":"@jupyter-widgets/base","model_module_version":"2.0.0","model_name":"LayoutModel","state":{"_model_module":"@jupyter-widgets/base","_model_module_version":"2.0.0","_model_name":"LayoutModel","_view_count":null,"_view_module":"@jupyter-widgets/base","_view_module_version":"2.0.0","_view_name":"LayoutView","align_content":null,"align_items":null,"align_self":null,"border_bottom":null,"border_left":null,"border_right":null,"border_top":null,"bottom":null,"display":"inline-flex","flex":null,"flex_flow":"row wrap","grid_area":null,"grid_auto_columns":null,"grid_auto_flow":null,"grid_auto_rows":null,"grid_column":null,"grid_gap":null,"grid_row":null,"grid_template_areas":null,"grid_template_columns":null,"grid_template_rows":null,"height":null,"justify_content":null,"justify_items":null,"left":null,"margin":null,"max_height":null,"max_width":null,"min_height":null,"min_width":null,"object_fit":null,"object_position":null,"order":null,"overflow":null,"padding":null,"right":null,"top":null,"visibility":null,"width":"100%"}},"ec99ad466fbc4343861522b5c9270a0a":{"model_module":"@jupyter-widgets/controls","model_module_version":"2.0.0","model_name":"HBoxModel","state":{"_dom_classes":[],"_model_module":"@jupyter-widgets/controls","_model_module_version":"2.0.0","_model_name":"HBoxModel","_view_count":null,"_view_module":"@jupyter-widgets/controls","_view_module_version":"2.0.0","_view_name":"HBoxView","box_style":"","children":["IPY_MODEL_6afba8055e2c49dfa81f9986a1ab6a39","IPY_MODEL_d2e7591a9e434319a386733c6dd4a66c","IPY_MODEL_fb09c1acca504dc09da0a9fcaa9c09aa"],"layout":"IPY_MODEL_eb07d584512044c796829f265903a0bd","tabbable":null,"tooltip":null}},"fb09c1acca504dc09da0a9fcaa9c09aa":{"model_module":"@jupyter-widgets/controls","model_module_version":"2.0.0","model_name":"HTMLModel","state":{"_dom_classes":[],"_model_module":"@jupyter-widgets/controls","_model_module_version":"2.0.0","_model_name":"HTMLModel","_view_count":null,"_view_module":"@jupyter-widgets/controls","_view_module_version":"2.0.0","_view_name":"HTMLView","description":"","description_allow_html":false,"layout":"IPY_MODEL_a71c74b10b3942759b6e5cd9469dc76b","placeholder":"","style":"IPY_MODEL_bde4598d8fd740a2b90c04fa6d36bd38","tabbable":null,"tooltip":null,"value":" [100%]   00:02 -&gt; (00:00 left)"}}},"version_major":2,"version_minor":0}
 </script>
 <script id="quarto-html-after-body" type="application/javascript">
 window.document.addEventListener("DOMContentLoaded", function (event) {
